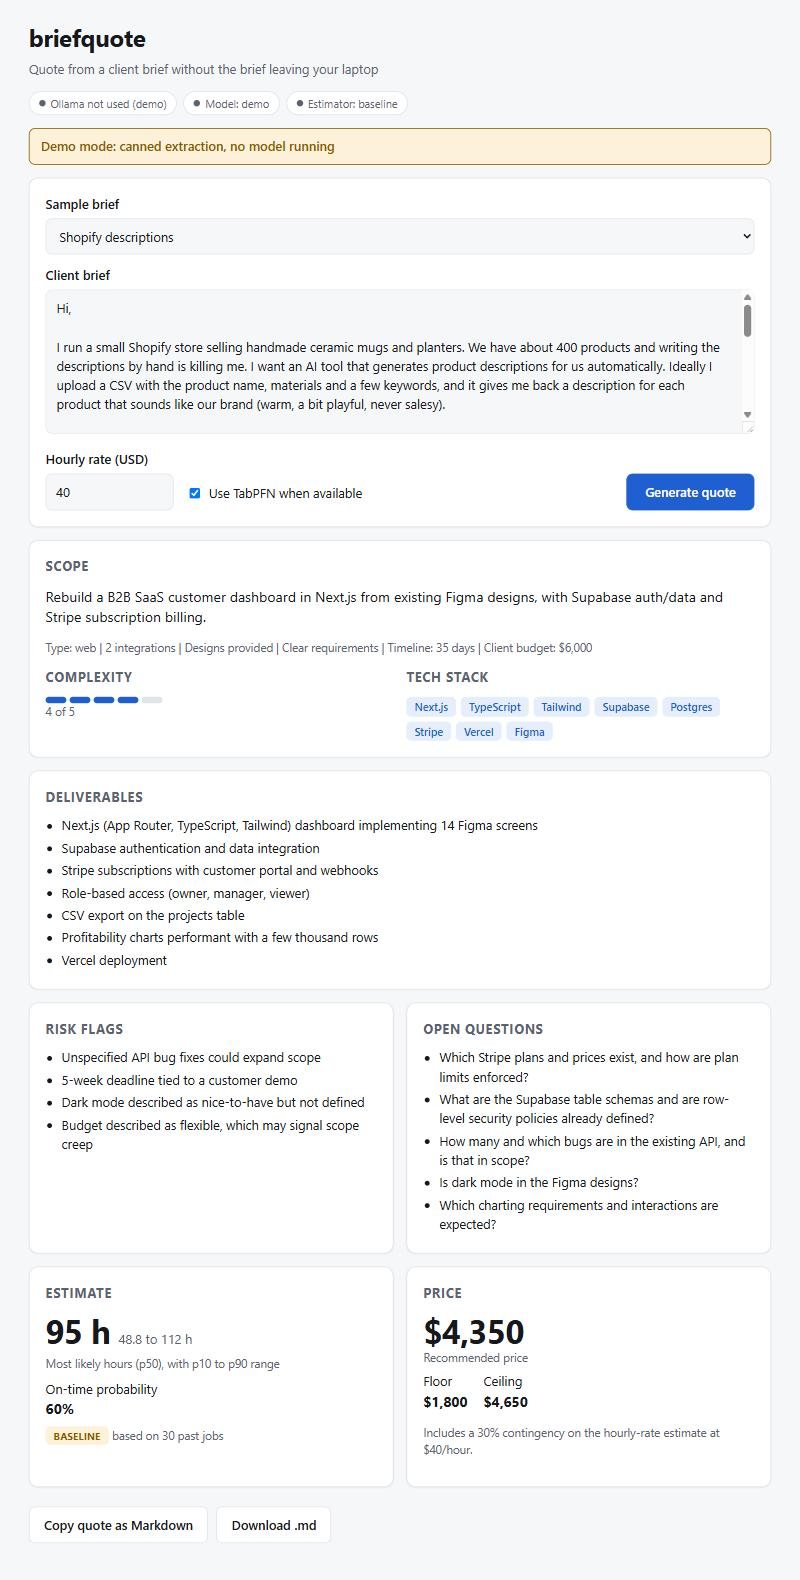
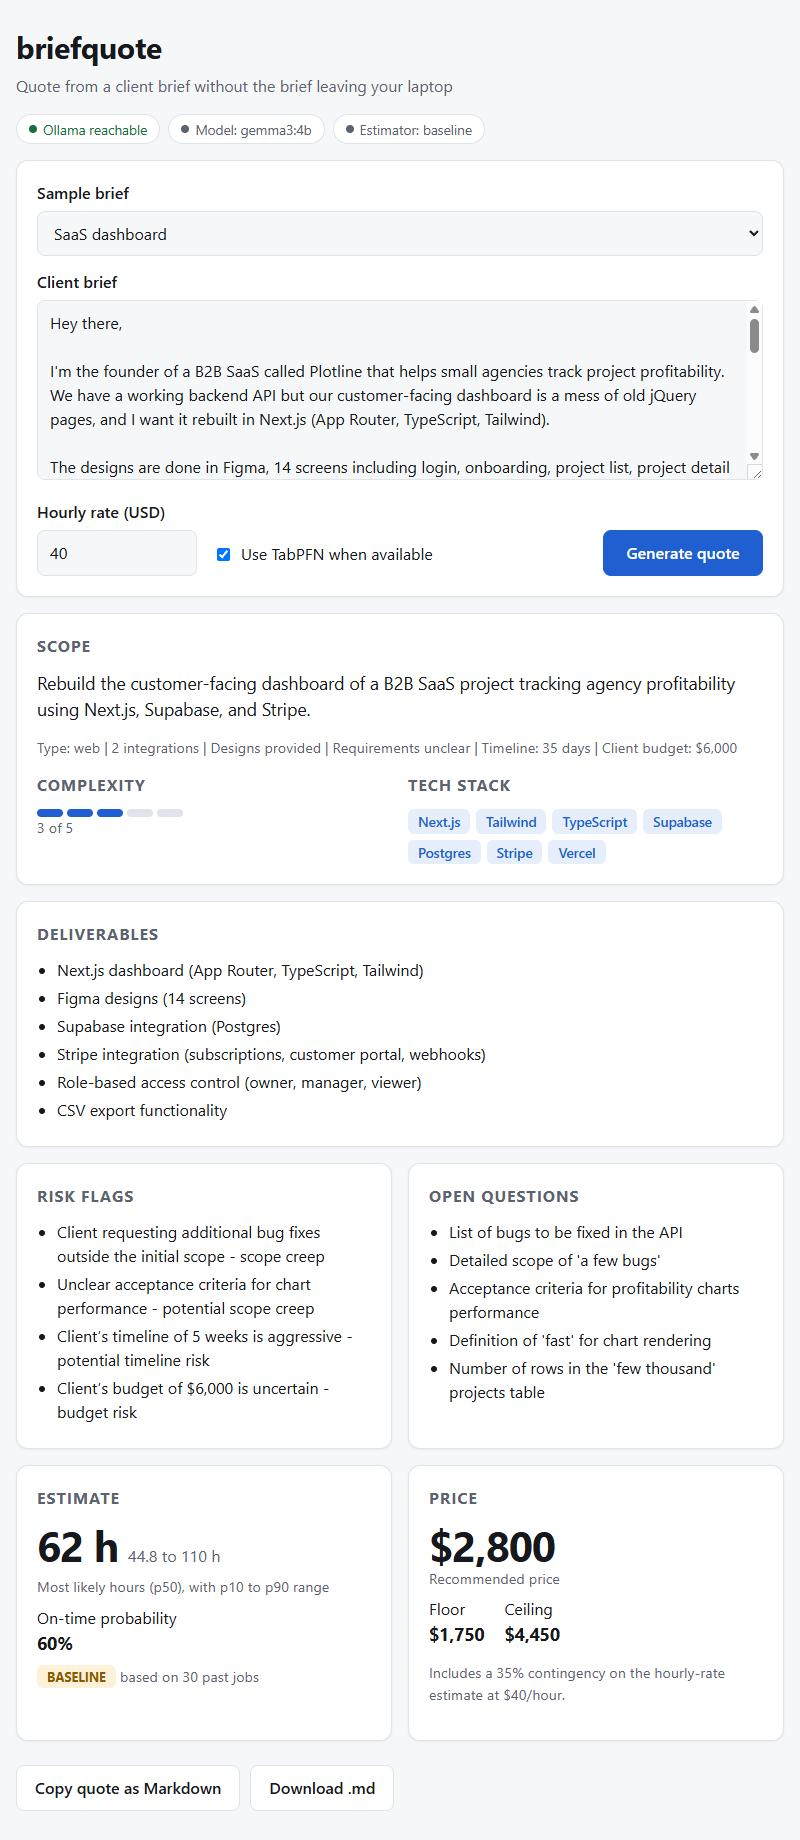
Harden Gemma path: retry aborted generations, UTF-8 output, enforce complexity range

diff --git a/briefquote/llm.py b/briefquote/llm.py
@@ -15,6 +15,10 @@ class OllamaUnavailable(RuntimeError):
     """Raised when the local Ollama server cannot be reached."""
 
 
+class ModelError(RuntimeError):
+    """Raised when the model server answers with an error (e.g. aborted generation)."""
+
+
 class LLMClient(Protocol):
     def complete_json(self, system: str, user: str, schema: dict) -> str: ...
 
@@ -44,16 +48,30 @@ class OllamaClient(LLMClient):
             "format": schema,
             "options": {"temperature": 0.1},
         }
-        try:
-            resp = requests.post(f"{self.base_url}/api/chat", json=payload, timeout=self.timeout)
-        except (requests.ConnectionError, requests.Timeout) as exc:
-            raise OllamaUnavailable(f"{INSTALL_HINT}\n(details: {exc})") from exc
+        resp = self._post(payload)
+        if resp.status_code == 500:
+            retry = dict(payload)
+            retry["options"] = {"temperature": 0.3, "repeat_penalty": 1.2}
+            resp = self._post(retry)
         if resp.status_code == 404:
             raise OllamaUnavailable(
                 f"Model '{self.model}' not found. Run: ollama pull {self.model}"
             )
-        resp.raise_for_status()
+        if not 200 <= resp.status_code < 300:
+            body = (getattr(resp, "text", "") or "")[:300]
+            if resp.status_code == 500:
+                raise ModelError(
+                    "The model aborted generation (Ollama HTTP 500). Try again, or use a "
+                    f"different --model. Response: {body}"
+                )
+            raise ModelError(f"Ollama returned HTTP {resp.status_code}. Response: {body}")
         return resp.json()["message"]["content"]
+
+    def _post(self, payload: dict):
+        try:
+            return requests.post(f"{self.base_url}/api/chat", json=payload, timeout=self.timeout)
+        except (requests.ConnectionError, requests.Timeout) as exc:
+            raise OllamaUnavailable(f"{INSTALL_HINT}\n(details: {exc})") from exc
 
     def health(self) -> dict:
         result = {"reachable": False, "models": [], "model_present": False}

diff --git a/tests/test_llm.py b/tests/test_llm.py
@@ -1,0 +1,57 @@
+import pytest
+
+from briefquote import llm
+from briefquote.llm import ModelError, OllamaClient, OllamaUnavailable
+
+
+class _Resp:
+    def __init__(self, status, text="", body=None):
+        self.status_code = status
+        self.text = text
+        self._body = body
+
+    def json(self):
+        return self._body
+
+
+OK = _Resp(200, body={"message": {"content": "{}"}})
+
+
+def _patch(monkeypatch, responses):
+    calls = []
+
+    def fake_post(url, json=None, timeout=None):
+        calls.append(json)
+        return responses[len(calls) - 1]
+
+    monkeypatch.setattr(llm.requests, "post", fake_post)
+    return calls
+
+
+def test_500_then_200_retries_with_new_options(monkeypatch):
+    calls = _patch(monkeypatch, [_Resp(500, "prediction aborted"), OK])
+    assert OllamaClient().complete_json("s", "u", {}) == "{}"
+    assert calls[0]["options"] == {"temperature": 0.1}
+    assert calls[1]["options"] == {"temperature": 0.3, "repeat_penalty": 1.2}
+
+
+def test_500_twice_raises_model_error(monkeypatch):
+    _patch(monkeypatch, [_Resp(500, "x" * 500), _Resp(500, "token repeat limit " + "y" * 400)])
+    with pytest.raises(ModelError) as ei:
+        OllamaClient().complete_json("s", "u", {})
+    msg = str(ei.value)
+    assert "aborted generation" in msg and "--model" in msg
+    assert "token repeat limit" in msg and "y" * 400 not in msg
+
+
+def test_other_status_becomes_model_error(monkeypatch):
+    calls = _patch(monkeypatch, [_Resp(503, "busy")])
+    with pytest.raises(ModelError, match="503"):
+        OllamaClient().complete_json("s", "u", {})
+    assert len(calls) == 1
+
+
+def test_404_still_unavailable(monkeypatch):
+    _patch(monkeypatch, [_Resp(404, "nope")])
+    with pytest.raises(OllamaUnavailable):
+        OllamaClient().complete_json("s", "u", {})

diff --git a/briefquote/cli.py b/briefquote/cli.py
@@ -9,7 +9,7 @@ from pathlib import Path
 from briefquote.extract import ExtractionError, extract_scope
 from briefquote.estimate import fit_estimator
 from briefquote.features import load_history
-from briefquote.llm import OllamaClient, OllamaUnavailable
+from briefquote.llm import ModelError, OllamaClient, OllamaUnavailable
 from briefquote.quote import build_quote, render_markdown
 from briefquote.schema import ScopeExtraction
 
@@ -50,7 +50,7 @@ def _extract(args: argparse.Namespace) -> int:
     client = OllamaClient(model=args.model)
     try:
         scope = extract_scope(brief, client)
-    except (OllamaUnavailable, ExtractionError) as exc:
+    except (OllamaUnavailable, ModelError, ExtractionError) as exc:
         print(f"error: {exc}", file=sys.stderr)
         return 1
     print(scope.model_dump_json(indent=2 if args.pretty else None))
@@ -96,7 +96,7 @@ def _quote(args: argparse.Namespace) -> int:
     client = OllamaClient(model=args.model)
     try:
         scope = extract_scope(brief, client)
-    except (OllamaUnavailable, ExtractionError) as exc:
+    except (OllamaUnavailable, ModelError, ExtractionError) as exc:
         print(f"error: {exc}", file=sys.stderr)
         return 1
     if args.save_scope:
@@ -180,7 +180,14 @@ def build_parser() -> argparse.ArgumentParser:
     return p
 
 
+def _force_utf8_output() -> None:
+    for stream in (sys.stdout, sys.stderr):
+        if hasattr(stream, "reconfigure"):
+            stream.reconfigure(encoding="utf-8")
+
+
 def main(argv: list[str] | None = None) -> int:
+    _force_utf8_output()
     args = build_parser().parse_args(argv)
     return args.func(args)
 

diff --git a/tests/test_cli.py b/tests/test_cli.py
@@ -62,3 +62,43 @@ def _block_tabpfn(real):
             raise ImportError("blocked for test")
         return real(name, *a, **k)
     return fake
+
+
+def test_cli_model_error_no_traceback(monkeypatch, capsys):
+    from briefquote.llm import ModelError
+
+    class Boom:
+        def complete_json(self, *a, **k):
+            raise ModelError("model aborted generation")
+
+    monkeypatch.setattr(cli, "OllamaClient", lambda model=None: Boom())
+    code = cli.main(["extract", str(ROOT / "examples" / "briefs" / "saas-dashboard.txt")])
+    err = capsys.readouterr().err
+    assert code == 1 and err.startswith("error: ") and "Traceback" not in err
+
+
+def test_force_utf8_output_reconfigures(monkeypatch):
+    import io
+
+    buf = io.BytesIO()
+    fake = io.TextIOWrapper(buf, encoding="cp1252", errors="strict")
+    monkeypatch.setattr(cli.sys, "stdout", fake)
+    cli._force_utf8_output()
+    print("It\u2019s a scope \u2014 done", file=fake)
+    fake.flush()
+    assert buf.getvalue().decode("utf-8").strip() == "It\u2019s a scope \u2014 done"
+
+
+def test_estimate_redirected_stdout_is_utf8(tmp_path):
+    import subprocess
+    import sys
+
+    out = tmp_path / "out.json"
+    with open(out, "wb") as f:
+        r = subprocess.run(
+            [sys.executable, "-m", "briefquote", "estimate",
+             str(ROOT / "examples" / "sample_extraction.json"), "--json", "--no-tabpfn"],
+            stdout=f, cwd=ROOT,
+        )
+    assert r.returncode == 0
+    json.loads(out.read_bytes().decode("utf-8"))

diff --git a/briefquote/web/server.py b/briefquote/web/server.py
@@ -9,7 +9,7 @@ from pathlib import Path
 from briefquote.estimate import BaselineEstimator, TabPFNEstimator, fit_estimator
 from briefquote.extract import ExtractionError, extract_scope
 from briefquote.features import load_history
-from briefquote.llm import FakeClient, OllamaClient, OllamaUnavailable
+from briefquote.llm import FakeClient, ModelError, OllamaClient, OllamaUnavailable
 from briefquote.quote import build_quote, render_markdown
 
 PROJECT_ROOT = Path(__file__).resolve().parent.parent.parent
@@ -107,6 +107,8 @@ class AppState:
             scope = extract_scope(brief, client)
         except OllamaUnavailable as exc:
             raise ApiError(503, str(exc)) from None
+        except ModelError as exc:
+            raise ApiError(502, str(exc)) from None
         except ExtractionError as exc:
             raw = (exc.last_output or "")[:MAX_RAW_CHARS]
             raise ApiError(

diff --git a/briefquote/schema.py b/briefquote/schema.py
@@ -19,9 +19,12 @@ class ScopeExtraction(BaseModel):
         description="Technologies, platforms or services explicitly mentioned in the brief."
     )
     complexity: int = Field(
+        ge=1,
+        le=5,
         description="Overall complexity as an integer from 1 (trivial) to 5 (very complex). Must not exceed 5."
     )
     integrations_count: int = Field(
+        ge=0,
         description="Number of third-party systems/APIs to integrate with (0 or more)."
     )
     has_design_provided: bool = Field(
@@ -41,6 +44,7 @@ class ScopeExtraction(BaseModel):
     )
     client_timeline_days: int | None = Field(
         default=None,
+        ge=1,
         description="Timeline in days if the client states one, otherwise null.",
     )
     budget_mentioned_usd: float | None = Field(

diff --git a/tests/test_web.py b/tests/test_web.py
@@ -134,3 +134,21 @@ def test_ollama_down_returns_503(monkeypatch):
         assert json.loads(body)["ollama"]["reachable"] is False
     finally:
         _stop(srv, t)
+
+
+def test_model_error_maps_to_502():
+    import pytest
+
+    from briefquote.llm import ModelError
+    from briefquote.web.server import ApiError, AppState
+
+    class Boom:
+        def complete_json(self, *a, **k):
+            raise ModelError("aborted")
+
+    state = AppState(demo=True, prefer_tabpfn=False)
+    state.demo = False
+    state.client = Boom()
+    with pytest.raises(ApiError) as ei:
+        state.make_quote({"brief": "x", "hourly_rate": 40})
+    assert ei.value.status == 502

diff --git a/tests/test_schema.py b/tests/test_schema.py
@@ -40,3 +40,10 @@ def test_negative_integrations_fails():
 def test_json_schema_for_llm_has_properties():
     schema = ScopeExtraction.json_schema_for_llm()
     assert "complexity" in schema["properties"]
+
+
+def test_json_schema_carries_complexity_bounds():
+    props = ScopeExtraction.json_schema_for_llm()["properties"]
+    assert props["complexity"]["minimum"] == 1
+    assert props["complexity"]["maximum"] == 5
+    assert props["integrations_count"]["minimum"] == 0
